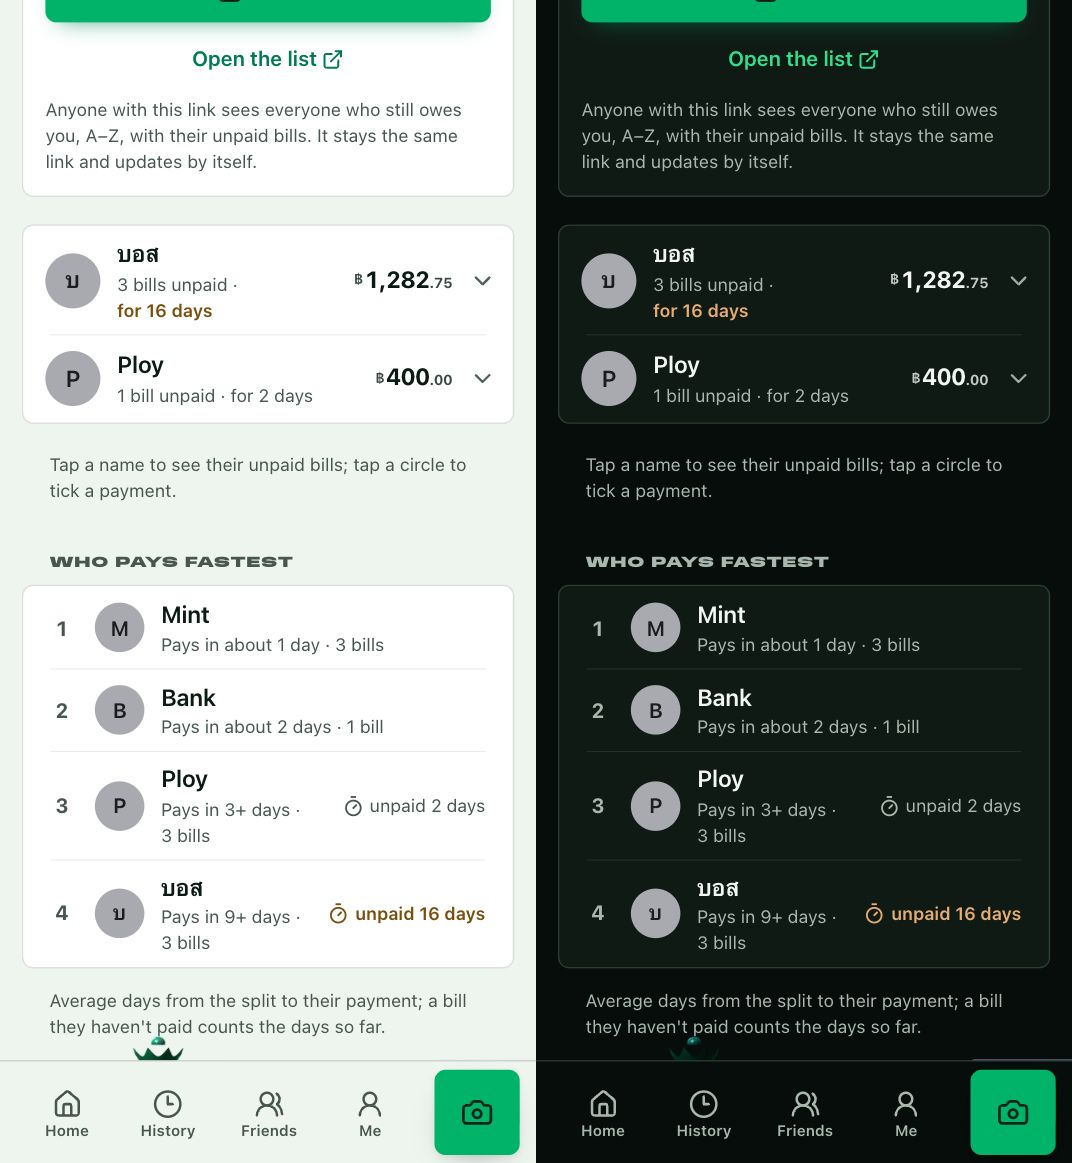
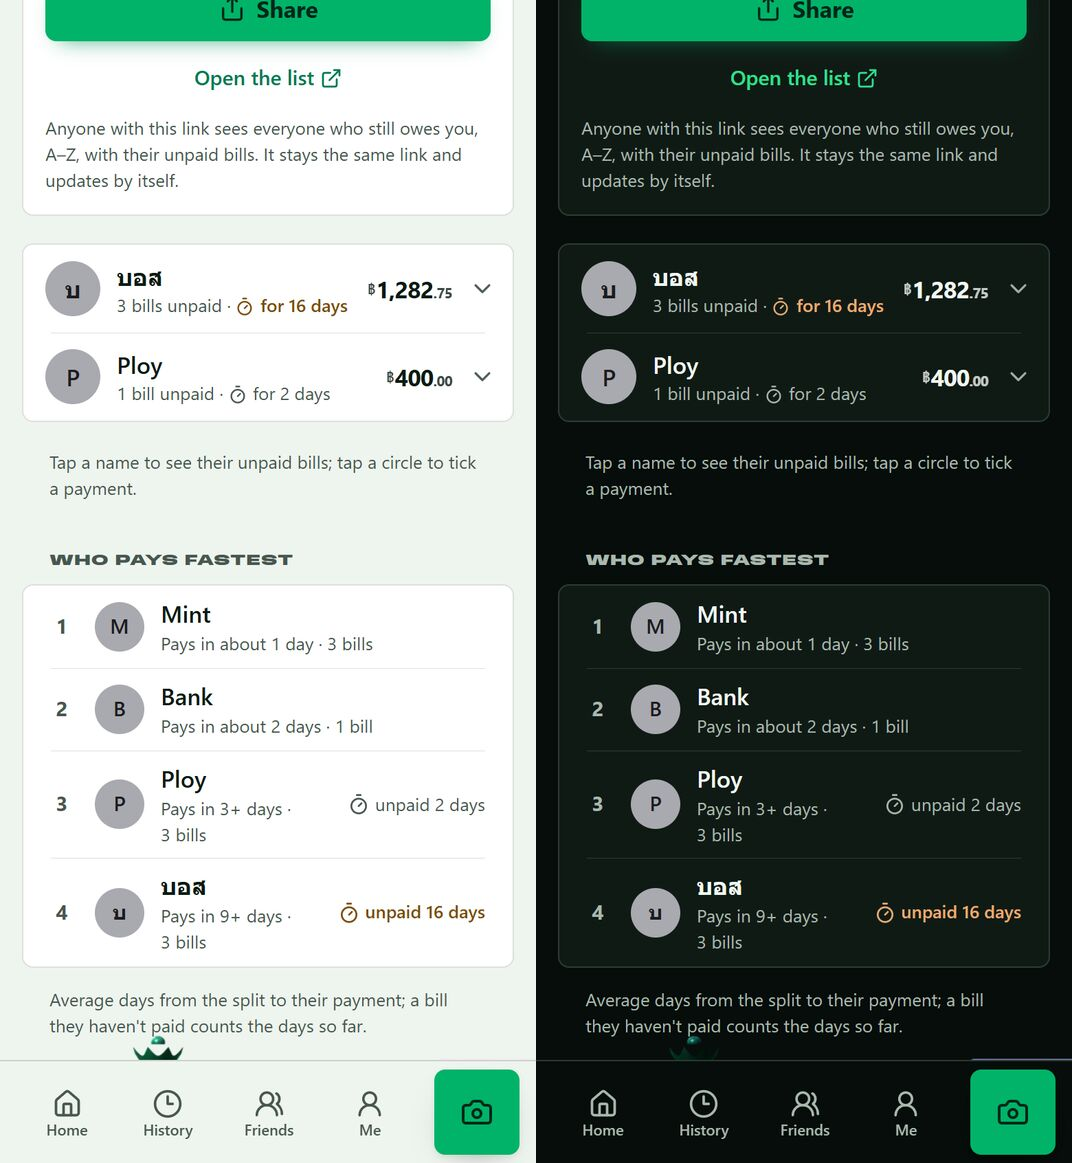
Who pays fastest: same ranking on both lists; timer beside time unpaid (#22)
* Who pays fastest: the same ranking on Owed to you and the shared list

The two lists could disagree:
- Friends with the same average (common: days are whole numbers) kept
  the order their bills came in: History's order on Owed to you, and on
  the shared list the order the server's reads happened to finish in,
  which could change from one load to the next. Ties now go A–Z, and the
  bills are read oldest first, so who is merged with whom (and the name
  and look shown) doesn't depend on their order either.
- Ticking someone paid on the bill page saves the tick in History but
  not its time, and Owed to you only looked times up for bills it had
  none for, so that bill dropped out of the friend's average there while
  the shared list counted it. Any tick without a time is now looked up,
  once: a tick the server has no time for is remembered as 0.

* README: who pays fastest goes A-Z on ties, same on both lists

The screenshots still match: the ranking in them has no ties.

* Owed to you and the shared list: a timer beside how long someone hasn't paid

"for 16 days" (Owed to you) and "Unpaid for 16 days" (the shared list)
get the same timer icon "Who pays fastest" shows below them for time
unpaid, amber with the text after a week.

* README: retake Owed to you, who pays fastest and the shared list

From the current app at 390 x 846, light and dark side by side as the
others (1072 x 1163, JPEG 80), with the sample bills: the timer beside
[…]

diff --git a/src/lib/paySpeedAgree.test.ts b/src/lib/paySpeedAgree.test.ts
@@ -1,0 +1,84 @@
+import { describe, expect, it } from "vitest";
+import { needsPayTimes, paidToMe } from "./client/historyRefresh";
+import { historyFromDoc, type HistoryEntry } from "./client/storage";
+import { newDoc } from "./draft";
+import { boardSpeed, paySpeed } from "./owed";
+import { paymentSummary } from "./settle";
+import type { SplitDoc } from "./types";
+
+// "Who pays fastest" is shown twice: on "Owed to you" from this phone's History, and on
+// the shared list from the bills on the server. Built from the same bills, they must agree.
+
+const now = Date.parse("2026-11-08T12:00:00+07:00");
+const noon = (day: string) => Date.parse(`${day}T12:00:00+07:00`);
+const me = { id: "me", name: "Isara" };
+const mint = { id: "mint01", name: "Mint" };
+const ploy = { id: "ploy01", name: "Ploy" };
+const boss = { id: "boss01", name: "บอส" };
+
+type Bill = { id: string; doc: SplitDoc; paid: string[]; partial: Record<string, number>; paidAt: Record<string, number> };
+
+function bill(id: string, date: string, people: SplitDoc["people"], paidAt: Record<string, number>): Bill {
+  const doc: SplitDoc = {
+    ...newDoc(),
+    title: id,
+    date,
+    mode: "equal",
+    people,
+    items: [{ id: "i", name: "x", qty: 1, price: 30000 * people.length, assigned: [] }],
+  };
+  return { id, doc, paid: Object.keys(paidAt), partial: {}, paidAt };
+}
+
+/** The History entry "Owed to you" has for a bill once it's been refreshed (as refreshEntry builds it). */
+function historyOf(b: Bill): HistoryEntry {
+  const summary = paymentSummary(b.doc, b);
+  return { id: b.id, title: b.doc.title, currency: b.doc.currency, ...historyFromDoc(b.doc), ...summary, paidAt: paidToMe(b.paidAt, summary.paidIds) };
+}
+
+const ranking = (speed: ReturnType<typeof paySpeed>) => speed.map((p) => `${p.look.name} ${p.days.toFixed(2)} ${p.paid}/${p.unpaid}`);
+
+const bills = [
+  // Mint and Ploy each pay one bill two days after it: a tie.
+  bill("dinner", "2026-11-01", [me, mint, ploy, boss], { mint01: noon("2026-11-03") }),
+  bill("karaoke", "2026-11-02", [me, ploy, boss], { ploy01: noon("2026-11-04") }),
+  bill("lunch", "2026-11-05", [me, { id: "x9", name: "mint " }, boss], {}),
+];
+
+describe("who pays fastest agrees between Owed to you and the shared list", () => {
+  it("ranks the same, whatever order the bills come in (ties included)", () => {
+    const fromHistory = ranking(paySpeed(bills.map(historyOf), now));
+    for (const order of [[0, 1, 2], [2, 1, 0], [1, 2, 0], [2, 0, 1]]) {
+      const shuffled = order.map((i) => bills[i]);
+      expect(ranking(boardSpeed(shuffled, now))).toEqual(fromHistory);
+      expect(ranking(paySpeed(shuffled.map(historyOf), now))).toEqual(fromHistory);
+    }
+  });
+
+  it("breaks a tie by name, A–Z", () => {
+    // Each pays one bill two days after it.
+    const a = bill("a", "2026-11-01", [me, ploy], { ploy01: noon("2026-11-03") });
+    const b = bill("b", "2026-11-04", [me, mint], { mint01: noon("2026-11-06") });
+    for (const order of [[a, b], [b, a]]) {
+      expect(boardSpeed(order, now).map((p) => p.look.name)).toEqual(["Mint", "Ploy"]);
+      expect(paySpeed(order.map(historyOf), now).map((p) => p.look.name)).toEqual(["Mint", "Ploy"]);
+    }
+  });
+});
+
+describe("payment times in History", () => {
+  it("are fetched again when someone was ticked on the bill page after the last refresh", () => {
+    const h = historyOf(bills[0]);
+    expect(needsPayTimes(h)).toBe(false);
+    // Ploy ticked on the bill page: History gets the tick, not its time.
+    expect(needsPayTimes({ ...h, paidIds: [...(h.paidIds ?? []), "ploy01"] })).toBe(true);
+    expect(needsPayTimes({ ...h, paidAt: undefined })).toBe(true);
+  });
+
+  it("aren't fetched over and over for ticks the server has no time for", () => {
+    const old = { ...bills[0], paidAt: {} }; // ticked before times were kept
+    const h = historyOf(old);
+    expect(h.paidIds).toEqual(["mint01"]);
+    expect(needsPayTimes({ ...h, paidAt: paidToMe(old.paidAt, h.paidIds) })).toBe(false);
+  });
+});

diff --git a/src/components/OwedToYou.tsx b/src/components/OwedToYou.tsx
@@ -1,11 +1,11 @@
 "use client";
 
-import { CheckCheck, ChevronDown, ChevronRight, PartyPopper } from "lucide-react";
+import { CheckCheck, ChevronDown, ChevronRight, PartyPopper, Timer } from "lucide-react";
 import Link from "next/link";
 import { useEffect, useState } from "react";
 import { claimMySplits } from "@/lib/client/claim";
 import { askConfirm } from "@/lib/client/confirm";
-import { refreshEntries, refreshEntry } from "@/lib/client/historyRefresh";
+import { needsPayTimes, refreshEntries, refreshEntry } from "@/lib/client/historyRefresh";
 import { getEditToken, getHistory, type HistoryEntry } from "@/lib/client/storage";
 import { dayCount, daysBetween, owedToYou, paySpeed, type OwedBill, type OwedFriend } from "@/lib/owed";
 import { getProfile } from "@/lib/client/profile";
@@ -77,9 +77,9 @@ export function OwedToYou() {
     const unsettled = new Set(owedToYou(getHistory()).flatMap((f) => f.bills.map((b) => b.id)));
     void refreshEntries(
       // Older entries don't say what each person owes yet: they need a look too.
-      // Paid bills without payment times are looked at once, for "Who pays fastest".
+      // Ticks without a payment time are looked up (once), for "Who pays fastest".
       getHistory().filter(
-        (h) => unsettled.has(h.id) || !h.members || h.members.some((m) => m.amount === undefined) || (!!h.paidIds?.length && !h.paidAt),
+        (h) => unsettled.has(h.id) || !h.members || h.members.some((m) => m.amount === undefined) || needsPayTimes(h),
       ),
       (h, patch) => {
         if (patch !== "gone") setEntries((es) => es.map((e) => (e.id === h.id ? { ...e, ...patch } : e)));
@@ -188,7 +188,11 @@ function FriendRow({
           <span className="block truncate font-semibold">{f.look.name}</span>
           <span className="block text-[13px] text-ink-2">
             {n} {n === 1 ? "bill" : "bills"} unpaid ·{" "}
-            <span className={cx("whitespace-nowrap", w >= 7 && "font-semibold text-warn")}>{w === 0 ? "since today" : `for ${dayCount(w)}`}</span>
+            {/* The same timer as "Who pays fastest" shows for time unpaid. */}
+            <span className={cx("inline-flex items-center gap-1 whitespace-nowrap align-bottom", w >= 7 && "font-semibold text-warn")}>
+              <Timer size={14} {...ICON} aria-hidden className="shrink-0" />
+              {w === 0 ? "since today" : `for ${dayCount(w)}`}
+            </span>
           </span>
         </span>
         <Money value={f.total} currency={f.currency} className="text-[17px] font-bold tracking-tight" />

diff --git a/src/lib/client/historyRefresh.ts b/src/lib/client/historyRefresh.ts
@@ -39,18 +39,15 @@ export async function refreshEntry(h: HistoryEntry): Promise<Partial<HistoryEntr
     let patch: Partial<HistoryEntry>;
     if (full) {
       const data: { doc: SplitDoc; paid: string[]; partial?: Record<string, number>; paidAt?: Record<string, number> } = await r.json();
-      patch = {
-        ...historyFromDoc(data.doc),
-        ...paymentSummary(data.doc, { paid: data.paid, partial: data.partial ?? {} }),
-        paidAt: paidToMe(data.paidAt),
-      };
+      const summary = paymentSummary(data.doc, { paid: data.paid, partial: data.partial ?? {} });
+      patch = { ...historyFromDoc(data.doc), ...summary, paidAt: paidToMe(data.paidAt, summary.paidIds) };
     } else {
       const data: { paid: string[]; partial?: Record<string, number>; paidAt?: Record<string, number> } = await r.json();
       patch = {
         ...paidProgress(h.personIds ?? [], data.paid),
         paidIds: data.paid,
         partialPaid: data.partial ?? {},
-        paidAt: paidToMe(data.paidAt),
+        paidAt: paidToMe(data.paidAt, data.paid),
       };
     }
     patchHistory(h.id, patch);
@@ -60,13 +57,27 @@ export async function refreshEntry(h: HistoryEntry): Promise<Partial<HistoryEntr
   }
 }
 
-/** Payment times by friend: a transfer to you ("t:mint:me") counts as Mint's. */
-function paidToMe(paidAt: Record<string, number> = {}): Record<string, number> {
+/**
+ * Payment times by friend: a transfer to you ("t:mint:me") counts as Mint's. Everyone in
+ * `paidIds` gets an entry, 0 when the server has no time for their tick (ticked before
+ * times were kept), so History knows it has asked and needn't ask again.
+ */
+export function paidToMe(paidAt: Record<string, number> = {}, paidIds: string[] = []): Record<string, number> {
   const out: Record<string, number> = {};
   for (const [k, t] of Object.entries(paidAt)) {
     const tr = parseTransferKey(k);
     if (!tr) out[k] = t;
     else if (tr.to === ORGANISER_ID) out[tr.from] = t;
   }
+  for (const id of paidIds) if (!parseTransferKey(id)) out[id] ??= 0;
   return out;
+}
+
+/**
+ * Someone's tick has no payment time in History yet. Ticking on the bill page records
+ * the tick but not its time, and without the time "Who pays fastest" on "Owed to you"
+ * would leave that bill out while the shared list (from the server) counts it.
+ */
+export function needsPayTimes(h: Pick<HistoryEntry, "paidIds" | "paidAt">): boolean {
+  return !!h.paidIds?.some((id) => !parseTransferKey(id) && h.paidAt?.[id] === undefined);
 }

diff --git a/src/lib/owed.ts b/src/lib/owed.ts
@@ -236,7 +236,11 @@ export interface PayerSpeed {
  */
 export function paySpeed(entries: HistoryLike[], now = Date.now()): PayerSpeed[] {
   const all: (PayerSpeed & { sum: number })[] = [];
-  for (const h of entries) {
+  // Oldest bill first, so who is merged with whom (and the name and look they're shown
+  // with) doesn't depend on the order the bills came in: "Owed to you" reads them from
+  // History, the shared list from the server, and both must rank alike.
+  const ordered = [...entries].sort((a, b) => Date.parse(a.createdAt) - Date.parse(b.createdAt) || byText(a.id, b.id));
+  for (const h of ordered) {
     for (const m of h.members ?? []) {
       if (m.id === ORGANISER_ID || m.amount === undefined || m.amount <= 0) continue;
       const paidAt = h.paidAt?.[m.id];
@@ -259,8 +263,18 @@ export function paySpeed(entries: HistoryLike[], now = Date.now()): PayerSpeed[]
   }
   return all
     .map(({ sum, ...p }) => ({ ...p, days: sum / (p.paid + p.unpaid) }))
-    .sort((a, b) => a.days - b.days || a.unpaid - b.unpaid || b.paid - a.paid);
+    .sort(
+      (a, b) =>
+        a.days - b.days ||
+        a.unpaid - b.unpaid ||
+        b.paid - a.paid ||
+        // A tie (same days, often: they're whole days) goes A–Z, the same on every page.
+        a.look.name.localeCompare(b.look.name, ["th", "en"], { sensitivity: "base" }) ||
+        byText(a.key, b.key),
+    );
 }
+
+const byText = (a: string, b: string) => (a < b ? -1 : a > b ? 1 : 0);
 
 /** Pay speed from the organiser's bills as stored (for the shareable list). */
 export function boardSpeed(

diff --git a/src/components/BoardView.tsx b/src/components/BoardView.tsx
@@ -1,6 +1,6 @@
 "use client";
 
-import { ChevronRight } from "lucide-react";
+import { ChevronRight, Timer } from "lucide-react";
 import Link from "next/link";
 import { useRouter } from "next/navigation";
 import { useState } from "react";
@@ -78,7 +78,8 @@ export function BoardView({
               <Avatar person={p.look} size={32} />
               <span className="min-w-0 flex-1">
                 <h2 className="truncate text-[19px] leading-tight font-bold">{p.look.name}</h2>
-                <span className={cx("block text-[13px]", oldest >= 7 ? "font-semibold text-warn" : "text-ink-2")}>
+                <span className={cx("flex items-center gap-1 text-[13px]", oldest >= 7 ? "font-semibold text-warn" : "text-ink-2")}>
+                  <Timer size={14} {...ICON} aria-hidden className="shrink-0" />
                   {oldest === 0 ? "Unpaid since today" : `Unpaid for ${dayCount(oldest)}`}
                 </span>
               </span>

diff --git a/src/lib/client/storage.ts b/src/lib/client/storage.ts
@@ -66,7 +66,7 @@ export interface HistoryEntry {
   partialPaid?: Record<string, number>;
   /** friends pay each payer directly: progress counts transfers, so refresh from the whole split */
   direct?: boolean;
-  /** when each friend's payment to you was ticked: personId → ms (absent until refreshed) */
+  /** when each friend's payment to you was ticked: personId → ms (0: the server has no time; absent until refreshed) */
   paidAt?: Record<string, number>;
 }
 

diff --git a/README.md b/README.md
@@ -51,7 +51,7 @@ The link preview friends see in chat:
 **History and the phone**
 - **History**, newest bill date first, with big bills holding their bills; tap a person to see their splits and what they owe you (or you owe them). Tap yourself to see what you spent.
 - **Owed to you:** every friend who still owes you, with their total, their unpaid bills and how long they've waited ("for 16 days", amber after a week). Tick a bill paid (in full or part) right there, or **Mark all paid** for a friend.
-- **Who pays fastest:** friends ranked by the average days from the split to their payment; a bill they haven't paid counts the days so far, so not paying moves them down.
+- **Who pays fastest:** friends ranked by the average days from the split to their payment; a bill they haven't paid counts the days so far, so not paying moves them down. Friends with the same average go A–Z, and the shared list below ranks everyone the same way.
 - **What I owe:** on a friend's phone, everything they still owe, grouped by who they pay (to the organiser, or to each payer): the bills they've opened, plus the same organisers' other bills they still owe on, also ones whose link they never got. **Pay** lets them tick which bills to pay (or all), with one QR for that total, and one slip pays the ticked bills, oldest first ("Already paid?" at the top uploads a slip straight away). They pick their name once from everyone who still owes in those friends' bills; picking themselves to pay or upload a slip also tells the app.
 - **Who still owes (shareable list):** one link (`/o/…`, with its own preview card) showing everyone who still owes you, A–Z, with all their unpaid bills, how long each has gone unpaid ("Unpaid for 16 days", "9 days ago") and **Who pays fastest**; each person can **Pay** (one QR for their total) or upload a slip there. Copy or share it from "Owed to you".
 - **Friends** page: tap a friend to see their splits. Renaming a friend (or yourself) updates every bill you've shared, old ones too (friends typed into older bills are found by name).
@@ -112,7 +112,7 @@ All of them are listed in [`.env.example`](.env.example).
 - **Maths** — `src/lib/calc.ts`, pure and integer-only (satang). Items → discount → service charge on the discounted subtotal → VAT on (subtotal + service). Shares use largest-remainder allocation, so everyone's amounts always add up exactly (in new splits the leftover units go to the friends, never the organiser); uneven shares are weights on the same allocation. Rounding, paid-upfront and the organiser's share are applied on top, never letting the organiser lose money.
 - **Scanning** — the phone fixes the photo's rotation and sends a ~2048 px JPEG to `POST /api/scan`. `src/lib/server/gemini.ts` races a chain of Gemini models (best first: 3.8 Flash, 3.7 Flash, 3.6 Flash, 3.5 Flash, 3.5 Flash-Lite, 3.1 Flash-Lite): the best one and Flash-Lite start together, others join when one fails or is slow. Flash-Lite's answer is only taken straight away if its numbers add up. A garbled answer or a refused photo counts as that model failing; if a model finds no items, a second one is asked, and two agreeing settles it. Busy, out-of-quota or timed-out models cool down (shared via Redis). Strict JSON schema, temperature 0, lowest thinking level. Results go through `src/lib/scanFilter.ts` and `applyScan`. See [`docs/scan-reliability.md`](docs/scan-reliability.md).
 - **Discount items** — `src/lib/discountMatch.ts`: a percentage leaves a fingerprint (10% of ฿599 is exactly ฿59.90), so it searches for the sets of items whose total gives exactly the printed discount, folds sets that only swap same-priced items, and ranks one kind of thing (all drinks or all food) and the organiser's items first.
-- **Pay speed** — each paid tick stores its time in Redis; History keeps it, and `paySpeed` in `src/lib/owed.ts` averages the days from each split to each friend's payment.
+- **Pay speed** — each paid tick stores its time in Redis; History keeps it ("Owed to you" looks up any tick it has no time for), and `paySpeed` in `src/lib/owed.ts` averages the days from each split to each friend's payment, reading bills oldest first so "Owed to you" and the shared list rank alike (`src/lib/paySpeedAgree.test.ts`).
 - **Sharing** — `POST /api/splits` → `{ id, token }`; only a SHA-256 of the edit token is stored. Splits live 90 days after the last activity. `/api/splits/{id}/paid` records payments (full, part or none; organiser only). Shared links carry `?v=` so chat apps refresh their preview after an edit; preview images come from `/api/og/s|e/{id}`.
 - **Slips** — `POST /api/splits/{id}/slip` (and `/api/events/{id}/slip`): read with Gemini, checked by `src/lib/slip.ts`, each slip reference can be used once.
 - **What I owe** — the organiser's phone tells the server which splits it made (`POST /api/organiser/claim`, each proven with its edit token, under a random phone id); `GET /api/splits/{id}/others` returns that organiser's other splits where the same person still owes (only for someone in split `{id}`, matched by id or by the name that split gives them).
